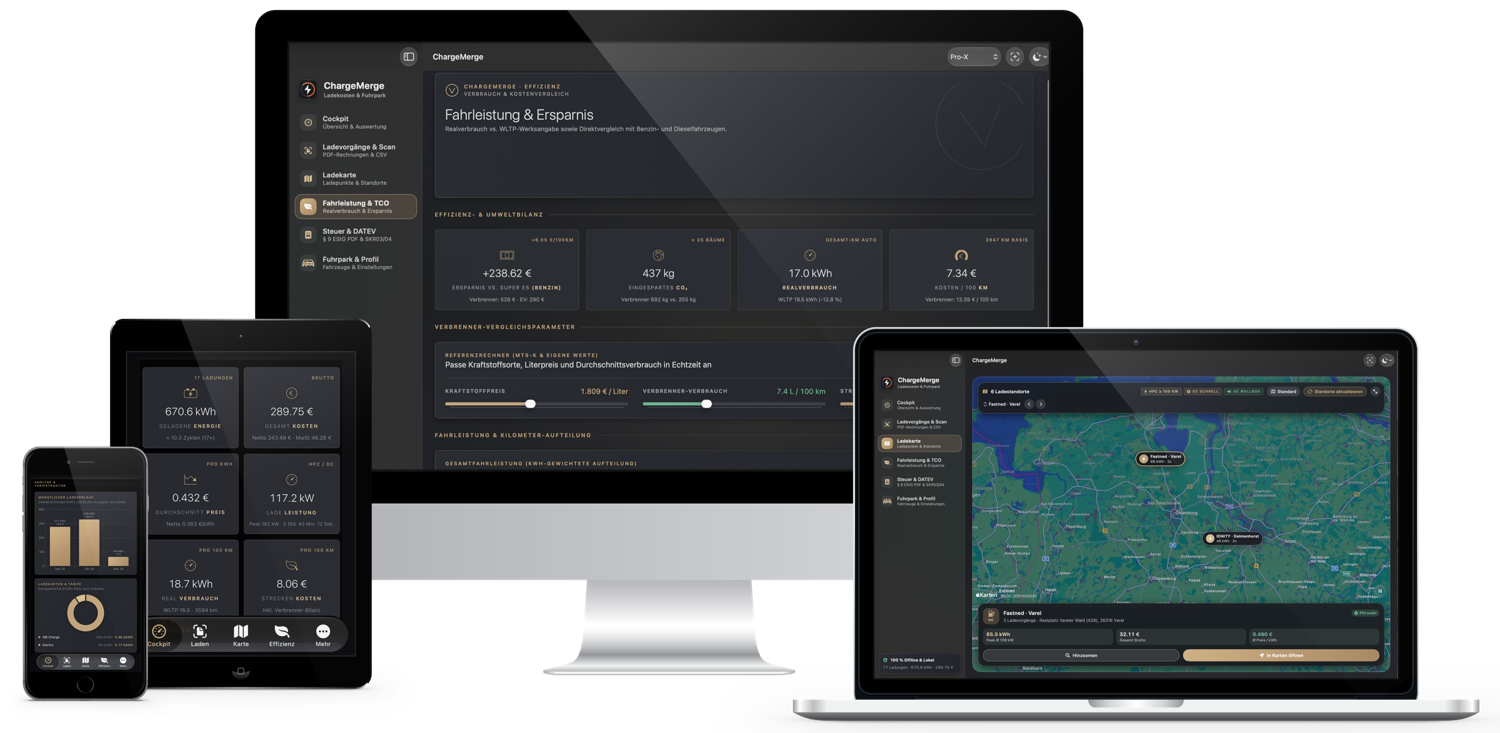
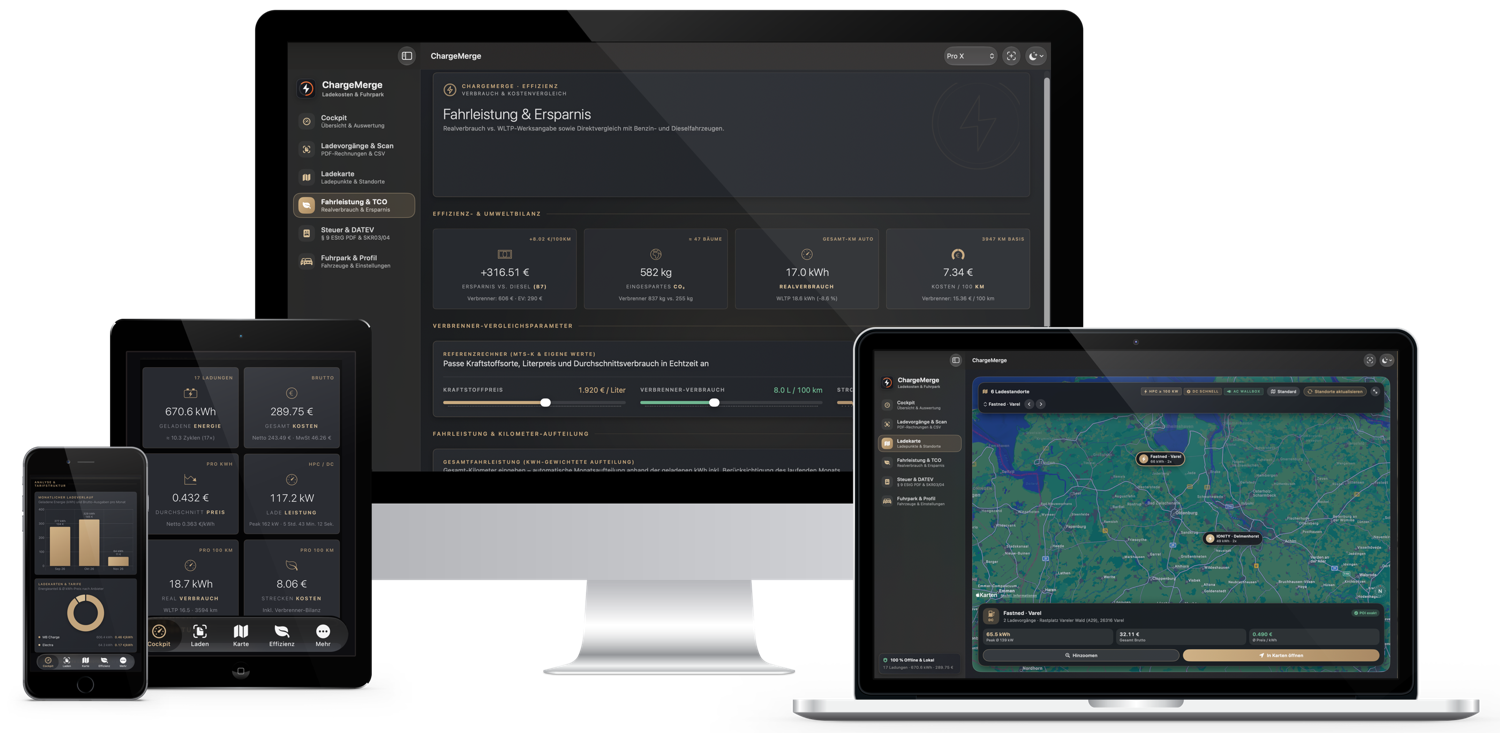
feat(web): neue Mac-Screenshots und Gerätebild mit Blitz-Emblem
Stand aus chargemerge-apple (WebLegal/).

diff --git a/index.html b/index.html
@@ -90,7 +90,7 @@
         <p class="lp-hero-note">Kostenlos für 1 Fahrzeug · iOS&nbsp;17+, iPadOS&nbsp;17+ und macOS&nbsp;14+</p>
 
         <figure class="lp-hero-visual">
-          <img src="assets/hero-geraete.png" width="1500" height="733" alt="ChargeMerge auf iPhone, iPad, iMac und MacBook: Cockpit mit Ladekosten, Fahrleistung und Ladekarte" fetchpriority="high">
+          <img src="assets/hero-geraete.png?v=2" width="1500" height="733" alt="ChargeMerge auf iPhone, iPad, iMac und MacBook: Cockpit mit Ladekosten, Fahrleistung und Ladekarte" fetchpriority="high">
         </figure>
       </section>
 
@@ -176,7 +176,7 @@
             </ul>
           </div>
           <figure class="lp-window">
-            <img src="assets/mac-cockpit.jpg" width="1600" height="1041" loading="lazy" alt="Cockpit auf dem Mac mit Kennzahlen zu geladener Energie, Gesamtkosten, Durchschnittspreis, Ladeleistung und Realverbrauch">
+            <img src="assets/mac-cockpit.jpg?v=2" width="1600" height="1040" loading="lazy" alt="Cockpit auf dem Mac mit Kennzahlen zu Energie, Kosten, Durchschnittspreis und Realverbrauch sowie Diagrammen zum Monatsverlauf und zu den Ladekarten">
           </figure>
         </div>
 
@@ -208,7 +208,7 @@
             </ul>
           </div>
           <figure class="lp-window">
-            <img src="assets/mac-fahrleistung.jpg" width="1600" height="1041" loading="lazy" alt="Ansicht Fahrleistung und Ersparnis auf dem Mac mit Ersparnis gegenüber Benzin, eingespartem CO₂ und Realverbrauch">
+            <img src="assets/mac-fahrleistung.jpg?v=2" width="1600" height="1041" loading="lazy" alt="Ansicht Fahrleistung und Ersparnis auf dem Mac mit Ersparnis gegenüber Diesel, eingespartem CO₂ und Realverbrauch">
           </figure>
         </div>
 
@@ -225,7 +225,7 @@
             </ul>
           </div>
           <figure class="lp-window">
-            <img src="assets/mac-steuer-datev.jpg" width="1600" height="1041" loading="lazy" alt="Ansicht Steuer und DATEV auf dem Mac mit Exportoptionen für PDF-Steuerbericht und DATEV-Buchungsstapel">
+            <img src="assets/mac-steuer-datev.jpg?v=2" width="1600" height="1040" loading="lazy" alt="Ansicht Steuer und DATEV auf dem Mac mit Exportoptionen für PDF-Steuerbericht und DATEV-Buchungsstapel">
           </figure>
         </div>
       </section>
